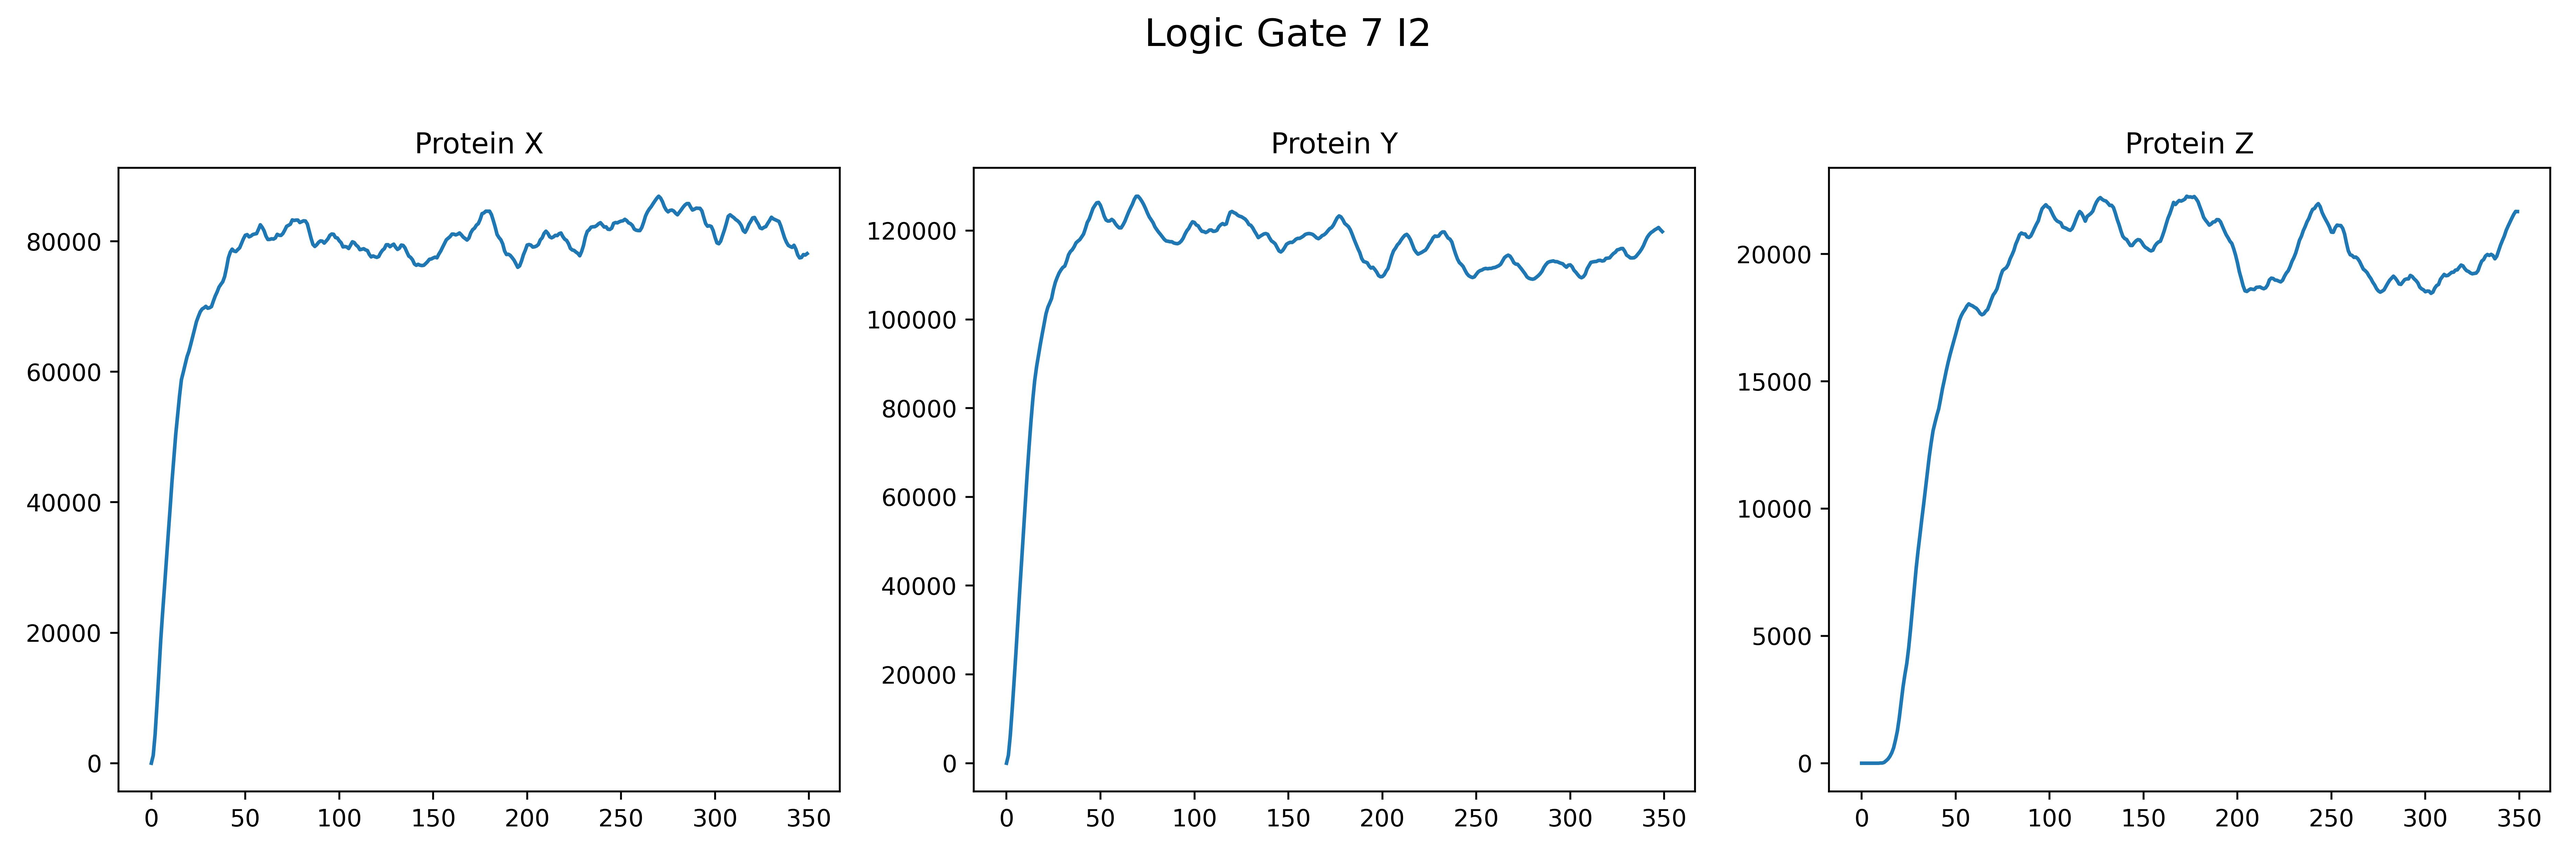
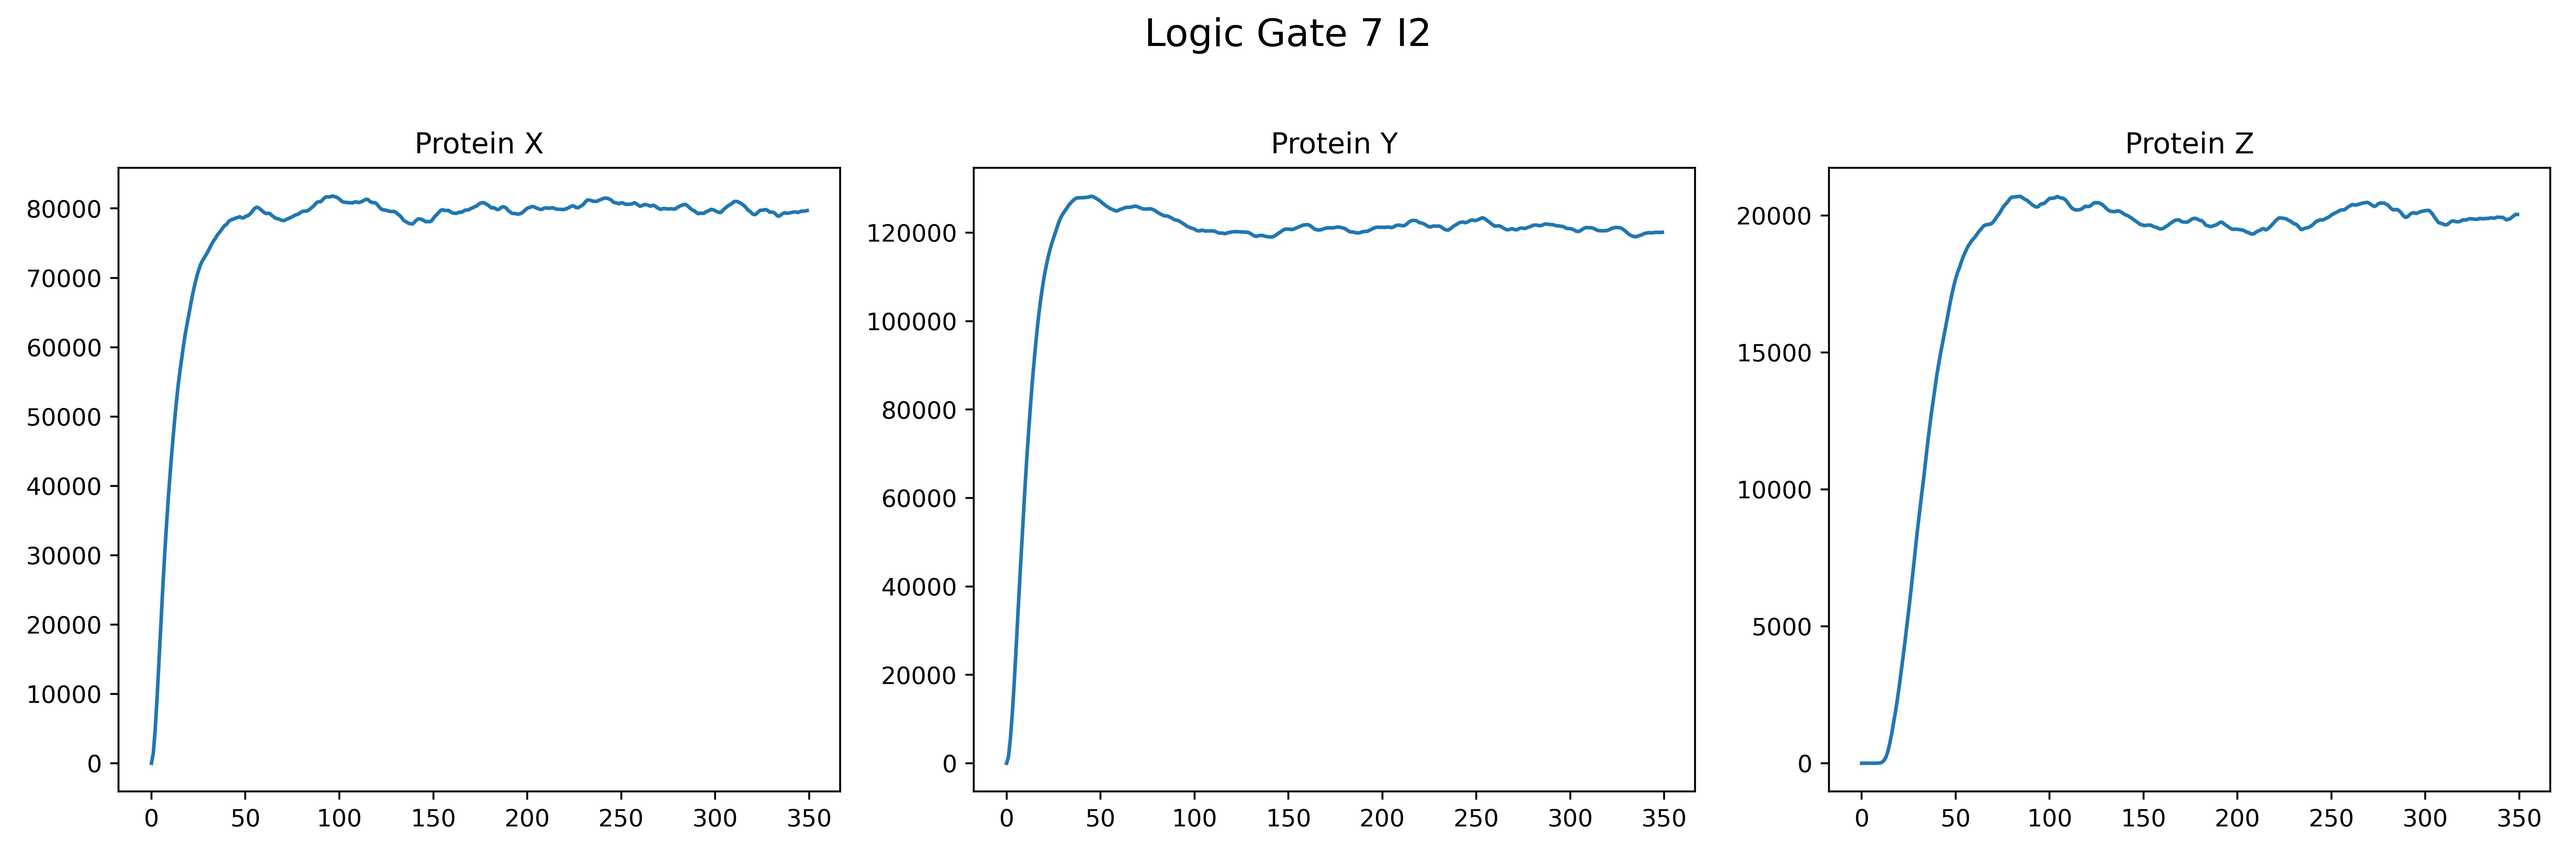
Updates

diff --git a/Logic_Gate_10/Scripts_Simulations/information_FFL_C2.py b/Logic_Gate_10/Scripts_Simulations/information_FFL_C2.py
@@ -190,7 +190,7 @@ for Hill in valores_posibles_Hill:
             return X
         x0 = np.array([0., 0., 0., 0., 0., 0., 0.])
 
-        num_cel = 10000 #número de células 
+        num_cel = 100 #número de células 
         celulas = np.array([Estado_celula(x0,np.arange(0.,700.,2.)) for i in tqdm(range(num_cel))])
 
         distribuciones_propias_X = celulas[:,0:,4]
@@ -203,3 +203,18 @@ for Hill in valores_posibles_Hill:
 
 #    diccionario_global_FFL_C2[f"Coeficiente_Hill_{Hill}"] = [distribucion_proteina_X, distribucion_proteina_Y, distribucion_proteina_Z]
 #    np.save('Simulacion_FFL_C2_AND_final.npy', diccionario_global_FFL_C2)
+celulas = np.mean(celulas, axis=0)
+# %%
+import matplotlib.pyplot as plt
+fig, axs = plt.subplots(1, 3, figsize=(15, 5))  # 1 fila, 3 columnas
+
+axs[0].plot(celulas[:,4])
+axs[0].set_title('Protein X')
+axs[1].plot(celulas[:,5])
+axs[1].set_title('Protein Y')
+axs[2].plot(celulas[:,6])
+axs[2].set_title('Protein Z')
+fig.suptitle('Logic Gate 10 C2', fontsize=16)
+
+plt.tight_layout(rect=[0, 0, 1, 0.95])
+plt.savefig("Logic_Gate_10_Coherent_2.jpg", dpi = 500)

diff --git a/Logic_Gate_10/Scripts_Simulations/information_FFL_I3.py b/Logic_Gate_10/Scripts_Simulations/information_FFL_I3.py
@@ -191,7 +191,7 @@ for Hill in valores_posibles_Hill:
         
         x0 = np.array([0., 0., 0., 0., 0., 0., 0.])
 
-        num_cel = 10000 #número de células 
+        num_cel = 100 #número de células 
         celulas = np.array([Estado_celula(x0,np.arange(0.,700.,2.)) for i in tqdm(range(num_cel))])
 
         distribuciones_propias_X = celulas[:,0:,4]
@@ -204,6 +204,18 @@ for Hill in valores_posibles_Hill:
 
 #    diccionario_global_FFL_I3[f"Coeficiente_Hill_{Hill}"] = [distribucion_proteina_X, distribucion_proteina_Y, distribucion_proteina_Z]
 #    np.save('Simulacion_FFL_I3_AND_final.npy', diccionario_global_FFL_I3)
+celulas = np.mean(celulas, axis=0)
+# %%
+import matplotlib.pyplot as plt
+fig, axs = plt.subplots(1, 3, figsize=(15, 5))  # 1 fila, 3 columnas
 
+axs[0].plot(celulas[:,4])
+axs[0].set_title('Protein X')
+axs[1].plot(celulas[:,5])
+axs[1].set_title('Protein Y')
+axs[2].plot(celulas[:,6])
+axs[2].set_title('Protein Z')
+fig.suptitle('Logic Gate 10 I3', fontsize=16)
 
-
+plt.tight_layout(rect=[0, 0, 1, 0.95])
+plt.savefig("Logic_Gate_10_Icoherent_3.jpg", dpi = 500)

diff --git a/Logic_Gate_10/Scripts_Simulations/information_FFL_I4.py b/Logic_Gate_10/Scripts_Simulations/information_FFL_I4.py
@@ -191,7 +191,7 @@ for Hill in valores_posibles_Hill:
         
         x0 = np.array([0., 0., 0., 0., 0., 0., 0.])
 
-        num_cel = 10000 #número de células 
+        num_cel = 100 #número de células 
         celulas = np.array([Estado_celula(x0,np.arange(0.,700.,2.)) for i in tqdm(range(num_cel))])
 
         distribuciones_propias_X = celulas[:,0:,4]
@@ -204,6 +204,18 @@ for Hill in valores_posibles_Hill:
 
 #    diccionario_global_FFL_I4[f"Coeficiente_Hill_{Hill}"] = [distribucion_proteina_X, distribucion_proteina_Y, distribucion_proteina_Z]
 #    np.save('Simulacion_FFL_I4_AND_final.npy', diccionario_global_FFL_I4)
+celulas = np.mean(celulas, axis=0)
+# %%
+import matplotlib.pyplot as plt
+fig, axs = plt.subplots(1, 3, figsize=(15, 5))  # 1 fila, 3 columnas
 
+axs[0].plot(celulas[:,4])
+axs[0].set_title('Protein X')
+axs[1].plot(celulas[:,5])
+axs[1].set_title('Protein Y')
+axs[2].plot(celulas[:,6])
+axs[2].set_title('Protein Z')
+fig.suptitle('Logic Gate 10 I4', fontsize=16)
 
-
+plt.tight_layout(rect=[0, 0, 1, 0.95])
+plt.savefig("Logic_Gate_10_Icoherent_4.jpg", dpi = 500)

diff --git a/Logic_Gate_10/Scripts_Simulations/information_FFL_C1.py b/Logic_Gate_10/Scripts_Simulations/information_FFL_C1.py
@@ -183,7 +183,7 @@ for Hill in valores_posibles_Hill:
         
         x0 = np.array([0., 0., 0., 0., 0., 0., 0.])
 
-        num_cel = 10000 #número de células 
+        num_cel = 100 #número de células 
         celulas = np.array([Estado_celula(x0,np.arange(0.,700.,2.)) for i in tqdm(range(num_cel))])
 
         distribuciones_propias_X = celulas[:,0:,4]
@@ -196,3 +196,18 @@ for Hill in valores_posibles_Hill:
 
 #    diccionario_global_FFL_C1[f"Coeficiente_Hill_{Hill}"] = [distribucion_proteina_X, distribucion_proteina_Y, distribucion_proteina_Z]
 #    np.save('Simulacion_FFL_C1_AND_final.npy', diccionario_global_FFL_C1)
+celulas = np.mean(celulas, axis=0)
+# %%
+import matplotlib.pyplot as plt
+fig, axs = plt.subplots(1, 3, figsize=(15, 5))  # 1 fila, 3 columnas
+
+axs[0].plot(celulas[:,4])
+axs[0].set_title('Protein X')
+axs[1].plot(celulas[:,5])
+axs[1].set_title('Protein Y')
+axs[2].plot(celulas[:,6])
+axs[2].set_title('Protein Z')
+fig.suptitle('Logic Gate 10 C1', fontsize=16)
+
+plt.tight_layout(rect=[0, 0, 1, 0.95])
+plt.savefig("Logic_Gate_10_Coherent_1.jpg", dpi = 500)

diff --git a/Logic_Gate_10/Scripts_Simulations/information_FFL_I1.py b/Logic_Gate_10/Scripts_Simulations/information_FFL_I1.py
@@ -190,7 +190,7 @@ for Hill in valores_posibles_Hill:
 
         x0 = np.array([0., 0., 0., 0., 0., 0., 0.])
 
-        num_cel = 10000 #número de células 
+        num_cel = 100 #número de células 
         celulas = np.array([Estado_celula(x0,np.arange(0.,700.,2.)) for i in tqdm(range(num_cel))])
 
         distribuciones_propias_X = celulas[:,0:,4]
@@ -203,7 +203,18 @@ for Hill in valores_posibles_Hill:
 
 #    diccionario_global_FFL_I1[f"Coeficiente_Hill_{Hill}"] = [distribucion_proteina_X, distribucion_proteina_Y, distribucion_proteina_Z]
 #    np.save('Simulacion_FFL_I1_AND_final.npy', diccionario_global_FFL_I1)
+celulas = np.mean(celulas, axis=0)
+# %%
+import matplotlib.pyplot as plt
+fig, axs = plt.subplots(1, 3, figsize=(15, 5))  # 1 fila, 3 columnas
 
+axs[0].plot(celulas[:,4])
+axs[0].set_title('Protein X')
+axs[1].plot(celulas[:,5])
+axs[1].set_title('Protein Y')
+axs[2].plot(celulas[:,6])
+axs[2].set_title('Protein Z')
+fig.suptitle('Logic Gate 10 I1', fontsize=16)
 
-
-
+plt.tight_layout(rect=[0, 0, 1, 0.95])
+plt.savefig("Logic_Gate_10_Icoherent_1.jpg", dpi = 500)

diff --git a/Logic_Gate_10/Scripts_Simulations/information_FFL_C3.py b/Logic_Gate_10/Scripts_Simulations/information_FFL_C3.py
@@ -191,7 +191,7 @@ for Hill in valores_posibles_Hill:
 
         x0 = np.array([0., 0., 0., 0., 0., 0., 0.])
 
-        num_cel = 10000 #número de células 
+        num_cel = 100 #número de células 
         celulas = np.array([Estado_celula(x0,np.arange(0.,700.,2.)) for i in tqdm(range(num_cel))])
 
         distribuciones_propias_X = celulas[:,0:,4]
@@ -204,6 +204,18 @@ for Hill in valores_posibles_Hill:
 
 #    diccionario_global_FFL_C3[f"Coeficiente_Hill_{Hill}"] = [distribucion_proteina_X, distribucion_proteina_Y, distribucion_proteina_Z]
 #    np.save('Simulacion_FFL_C3_AND_final.npy', diccionario_global_FFL_C3)
+celulas = np.mean(celulas, axis=0)
+# %%
+import matplotlib.pyplot as plt
+fig, axs = plt.subplots(1, 3, figsize=(15, 5))  # 1 fila, 3 columnas
 
+axs[0].plot(celulas[:,4])
+axs[0].set_title('Protein X')
+axs[1].plot(celulas[:,5])
+axs[1].set_title('Protein Y')
+axs[2].plot(celulas[:,6])
+axs[2].set_title('Protein Z')
+fig.suptitle('Logic Gate 10 C3', fontsize=16)
 
-
+plt.tight_layout(rect=[0, 0, 1, 0.95])
+plt.savefig("Logic_Gate_10_Coherent_3.jpg", dpi = 500)

diff --git a/Logic_Gate_10/Scripts_Simulations/information_FFL_I2.py b/Logic_Gate_10/Scripts_Simulations/information_FFL_I2.py
@@ -191,7 +191,7 @@ for Hill in valores_posibles_Hill:
 
         x0 = np.array([0., 0., 0., 0., 0., 0., 0.])
 
-        num_cel = 10000 #número de células 
+        num_cel = 100 #número de células 
         celulas = np.array([Estado_celula(x0,np.arange(0.,700.,2.)) for i in tqdm(range(num_cel))])
 
         distribuciones_propias_X = celulas[:,0:,4]
@@ -204,3 +204,18 @@ for Hill in valores_posibles_Hill:
 
 #    diccionario_global_FFL_I2[f"Coeficiente_Hill_{Hill}"] = [distribucion_proteina_X, distribucion_proteina_Y, distribucion_proteina_Z]
 #    np.save('Simulacion_FFL_I2_AND_final.npy', diccionario_global_FFL_I2)
+celulas = np.mean(celulas, axis=0)
+# %%
+import matplotlib.pyplot as plt
+fig, axs = plt.subplots(1, 3, figsize=(15, 5))  # 1 fila, 3 columnas
+
+axs[0].plot(celulas[:,4])
+axs[0].set_title('Protein X')
+axs[1].plot(celulas[:,5])
+axs[1].set_title('Protein Y')
+axs[2].plot(celulas[:,6])
+axs[2].set_title('Protein Z')
+fig.suptitle('Logic Gate 10 I2', fontsize=16)
+
+plt.tight_layout(rect=[0, 0, 1, 0.95])
+plt.savefig("Logic_Gate_10_Icoherent_2.jpg", dpi = 500)

diff --git a/Logic_Gate_10/Scripts_Simulations/information_FFL_C4.py b/Logic_Gate_10/Scripts_Simulations/information_FFL_C4.py
@@ -204,6 +204,18 @@ for Hill in valores_posibles_Hill:
 
 #    diccionario_global_FFL_C4[f"Coeficiente_Hill_{Hill}"] = [distribucion_proteina_X, distribucion_proteina_Y, distribucion_proteina_Z]
 #    np.save('Simulacion_FFL_C4_AND_final.npy', diccionario_global_FFL_C4)
+celulas = np.mean(celulas, axis=0)
+# %%
+import matplotlib.pyplot as plt
+fig, axs = plt.subplots(1, 3, figsize=(15, 5))  # 1 fila, 3 columnas
 
+axs[0].plot(celulas[:,4])
+axs[0].set_title('Protein X')
+axs[1].plot(celulas[:,5])
+axs[1].set_title('Protein Y')
+axs[2].plot(celulas[:,6])
+axs[2].set_title('Protein Z')
+fig.suptitle('Logic Gate 10 C4', fontsize=16)
 
-
+plt.tight_layout(rect=[0, 0, 1, 0.95])
+plt.savefig("Logic_Gate_10_Coherent_4.jpg", dpi = 500)
